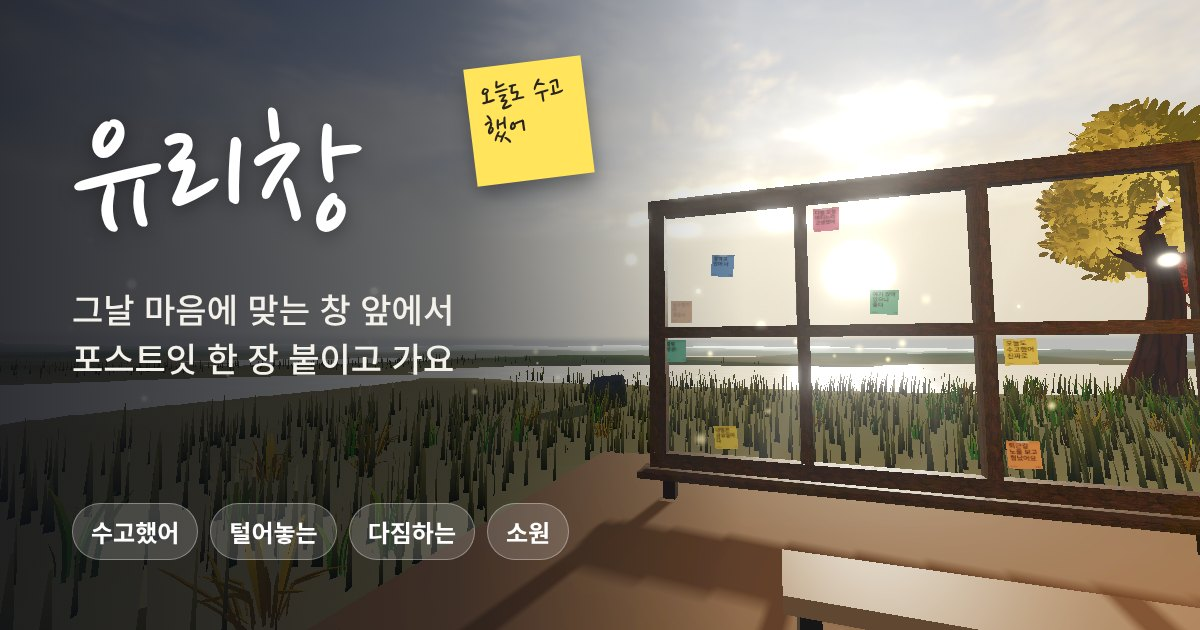
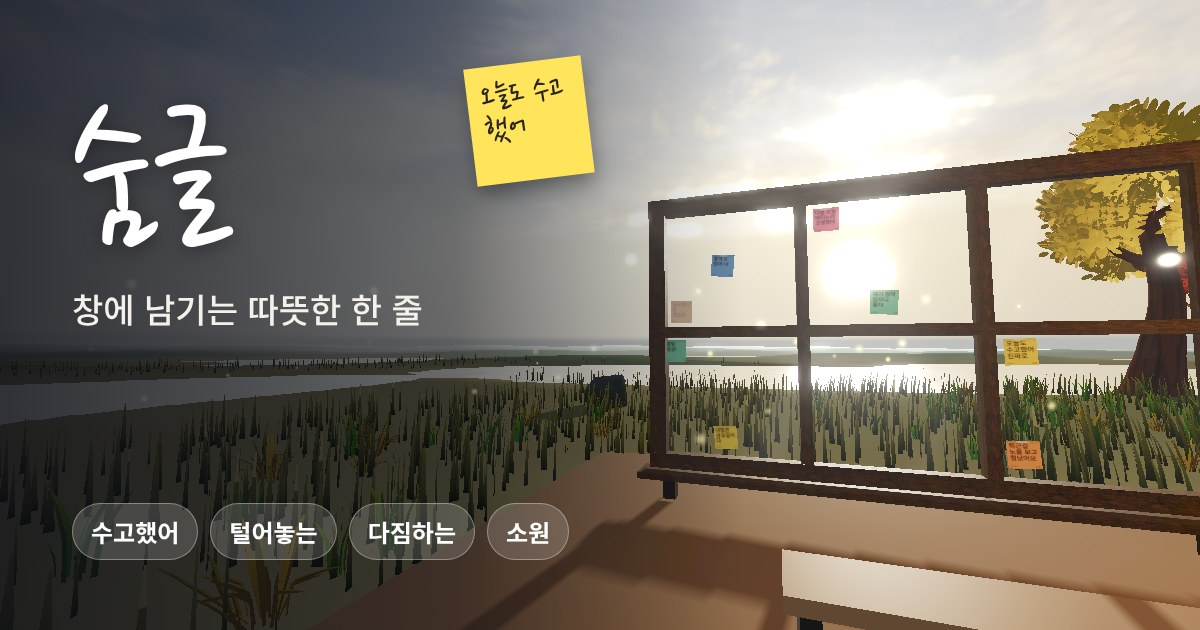
Rename service to 숨글 (title, intro, share card, OG image, PWA name)
Claude-Session: https://claude.ai/code/session_018BVTovwP8Kv17rptddpdNd

Changed region(s): [[0.0617, 0.1508, 0.3083, 0.3921], [0.0617, 0.4524, 0.4008, 0.6032]]

diff --git a/index.html b/index.html
@@ -3,11 +3,11 @@
 <head>
 <meta charset="utf-8">
 <meta name="viewport" content="width=device-width, initial-scale=1, maximum-scale=1, user-scalable=no, viewport-fit=cover">
-<title>유리창 — 포스트잇 한 장 붙이고 가요</title>
-<meta name="description" content="그날 마음에 맞는 유리창 앞에 서서, 사람들이 남긴 포스트잇을 읽고 한 장 붙이고 가요. 수고했어 · 털어놓는 · 다짐하는 · 소원 창.">
+<title>숨글 — 창에 남기는 따뜻한 한 줄</title>
+<meta name="description" content="입김 서린 창에 따뜻한 한 줄. 그날 마음에 맞는 창 앞에 서서, 사람들이 남긴 포스트잇을 읽고 한 장 붙이고 가요. 수고했어 · 털어놓는 · 다짐하는 · 소원 창.">
 <meta property="og:type" content="website">
-<meta property="og:site_name" content="유리창">
-<meta property="og:title" content="유리창 — 포스트잇 한 장 붙이고 가요">
+<meta property="og:site_name" content="숨글">
+<meta property="og:title" content="숨글 — 창에 남기는 따뜻한 한 줄">
 <meta property="og:description" content="그날 마음에 맞는 창 앞에 서서, 사람들이 남긴 포스트잇을 읽고 한 장 붙이고 가요.">
 <meta property="og:url" content="https://greenneeg-sketch.github.io/windows/">
 <meta property="og:image" content="https://greenneeg-sketch.github.io/windows/og.jpg">
@@ -20,7 +20,7 @@
 <link rel="icon" type="image/png" sizes="32x32" href="favicon-32.png">
 <link rel="icon" type="image/png" sizes="192x192" href="icon-192.png">
 <link rel="apple-touch-icon" href="icon-180.png">
-<meta name="apple-mobile-web-app-title" content="유리창">
+<meta name="apple-mobile-web-app-title" content="숨글">
 <meta name="apple-mobile-web-app-capable" content="yes">
 <meta name="mobile-web-app-capable" content="yes">
 <meta name="apple-mobile-web-app-status-bar-style" content="black-translucent">
@@ -114,6 +114,7 @@
   #intro{position:fixed;inset:0;z-index:20;display:flex;flex-direction:column;justify-content:flex-end;padding:0 24px calc(env(safe-area-inset-bottom) + 36px);background:linear-gradient(180deg,rgba(10,12,20,.15) 0%,rgba(10,12,20,.55) 45%,rgba(10,12,20,.92) 100%);transition:opacity .8s}
   #intro{overflow-y:auto}
   #intro h1{margin:0 0 10px;font-family:'Nanum Pen Script',cursive;font-size:64px;font-weight:400;line-height:1}
+  #intro p.tag{margin:-2px 0 14px;font-size:13px;letter-spacing:.12em;color:#CFC8BA;opacity:.85}
   #intro p{margin:0 0 8px;font-size:15px;line-height:1.6;color:#E6E1D6}
   .news{margin-top:16px;padding:14px;border-radius:16px;background:rgba(255,201,77,.14);border:1px solid rgba(255,201,77,.45);display:flex;flex-direction:column;gap:8px}
   .news[hidden]{display:none}
@@ -183,7 +184,7 @@
 </style>
 </head>
 <body class="intro">
-<canvas id="c" aria-label="유리창 3D 공간"></canvas>
+<canvas id="c" aria-label="숨글 3D 공간"></canvas>
 
 <div id="top">
   <button id="loc" class="glass" aria-label="다른 창으로 가기">
@@ -332,7 +333,8 @@
 </div>
 
 <div id="intro">
-  <h1>유리창</h1>
+  <h1>숨글</h1>
+  <p class="tag">창에 남기는 따뜻한 한 줄</p>
   <p>그날 마음에 맞는 창 앞에 서서,<br>사람들이 남긴 포스트잇을 읽고 한 장 붙이고 가요.</p>
   <div id="news" class="news" hidden></div>
   <div id="themes" class="themes"></div>
@@ -1934,7 +1936,7 @@ function shareOrCopy(data, okMsg){
   else toast(text);
 }
 $('shareWin').addEventListener('click', function(){
-  shareOrCopy({ title:'유리창 · '+cfg.name+' 창', text:cfg.name+' 창에 포스트잇 한 장 붙이고 가요', url:pageUrl()+'#'+cfg.slug }, '링크를 복사했어요');
+  shareOrCopy({ title:'숨글 · '+cfg.name+' 창', text:cfg.name+' 창에 포스트잇 한 장 붙이고 가요', url:pageUrl()+'#'+cfg.slug }, '링크를 복사했어요');
 });
 
 // ---------- story image of one post-it (1080 x 1920) ----------
@@ -1962,7 +1964,7 @@ function makeCard(n){
   if(cfg.id==='newyear'){ var SR=rng(7); for(var si=0; si<160; si++){ var sx=SR()*W, sy=SR()*H, sr=1+SR()*3.5; x.fillStyle='rgba(255,255,255,'+(0.25+SR()*0.55)+')'; x.beginPath(); x.arc(sx,sy,sr,0,Math.PI*2); x.fill(); } }
   x.textAlign='center'; x.textBaseline='alphabetic';
   // small wordmark + window name, quiet and spaced
-  x.fillStyle='rgba(255,255,255,.96)'; x.font='88px "Nanum Pen Script", cursive'; x.fillText('유리창', W/2, 210);
+  x.fillStyle='rgba(255,255,255,.96)'; x.font='88px "Nanum Pen Script", cursive'; x.fillText('숨글', W/2, 210);
   x.fillStyle = cfg.id==='newyear' ? 'rgba(255,224,143,.95)' : 'rgba(255,255,255,.72)'; x.font='500 28px "Noto Sans KR", sans-serif';
   if('letterSpacing' in x) x.letterSpacing='6px';
   x.fillText(cfg.name+' 창', W/2, 266);
@@ -2117,7 +2119,7 @@ function capturePhoto(){
   if(photo.mark){
     var gr = x.createLinearGradient(0, H*0.78, 0, H); gr.addColorStop(0,'rgba(0,0,0,0)'); gr.addColorStop(1,'rgba(0,0,0,.35)'); x.fillStyle = gr; x.fillRect(0, H*0.78, W, H*0.22);
     x.textAlign = 'left'; x.textBaseline = 'alphabetic'; x.shadowColor = 'rgba(0,0,0,.35)'; x.shadowBlur = 12;
-    x.fillStyle = 'rgba(255,255,255,.95)'; x.font = '64px "Nanum Pen Script", cursive'; x.fillText('유리창', 56, H-86);
+    x.fillStyle = 'rgba(255,255,255,.95)'; x.font = '64px "Nanum Pen Script", cursive'; x.fillText('숨글', 56, H-86);
     x.fillStyle = 'rgba(255,255,255,.75)'; x.font = '500 24px "Noto Sans KR", sans-serif'; if('letterSpacing' in x) x.letterSpacing = '4px';
     x.fillText(cfg.name+' 창', 58, H-48); if('letterSpacing' in x) x.letterSpacing = '0px';
     x.textAlign = 'right'; x.fillStyle = 'rgba(255,255,255,.6)'; x.font = '400 22px "Noto Sans KR", sans-serif';
@@ -2129,7 +2131,7 @@ function capturePhoto(){
 $('cardShare').addEventListener('click', function(){
   if(!cardBlob) return;
   var file = new File([cardBlob], cardName, {type:cardBlob.type});
-  navigator.share({files:[file], title:'유리창', text:cfg.name+' 창 · '+pageUrl()+'#'+cfg.slug}).catch(function(){});
+  navigator.share({files:[file], title:'숨글', text:cfg.name+' 창 · '+pageUrl()+'#'+cfg.slug}).catch(function(){});
 });
 
 // ---------- "my post-its" news: hearts that arrived since the last visit ----------

diff --git a/admin.html b/admin.html
@@ -4,7 +4,7 @@
 <meta charset="utf-8">
 <meta name="viewport" content="width=device-width, initial-scale=1, viewport-fit=cover">
 <meta name="robots" content="noindex, nofollow">
-<title>유리창 관리</title>
+<title>숨글 관리</title>
 <link rel="icon" type="image/png" sizes="32x32" href="favicon-32.png">
 <link rel="preconnect" href="https://fonts.googleapis.com">
 <link href="https://fonts.googleapis.com/css2?family=Nanum+Pen+Script&family=Gaegu:wght@400;700&family=Jua&family=Gowun+Batang:wght@400;700&family=Gamja+Flower&family=Hi+Melody&family=Noto+Sans+KR:wght@400;500;700&display=swap" rel="stylesheet">
@@ -47,7 +47,7 @@
 <body>
 <div class="wrap">
   <div style="display:flex;align-items:flex-end;justify-content:space-between;gap:12px">
-    <div><h1>유리창 관리</h1><p class="muted">신고된 포스트잇을 확인하고 숨기거나 되살려요</p></div>
+    <div><h1>숨글 관리</h1><p class="muted">신고된 포스트잇을 확인하고 숨기거나 되살려요</p></div>
     <button class="btn ghost" id="logout" hidden>나가기</button>
   </div>
 

diff --git a/sw.js b/sw.js
@@ -1,4 +1,4 @@
-const C='yurichang-v1';
+const C='sumgeul-v1';
 self.addEventListener('install',e=>self.skipWaiting());
 self.addEventListener('activate',e=>e.waitUntil(caches.keys().then(ks=>Promise.all(ks.filter(k=>k!==C).map(k=>caches.delete(k)))).then(()=>self.clients.claim())));
 self.addEventListener('fetch',e=>{

diff --git a/README.md b/README.md
@@ -1,4 +1,4 @@
-# 유리창
+# 숨글 — 창에 남기는 따뜻한 한 줄
 
 그날 마음에 맞는 유리창 앞에 서서 포스트잇을 붙이고 가는 1인칭 3D 웹 공간입니다.
 
